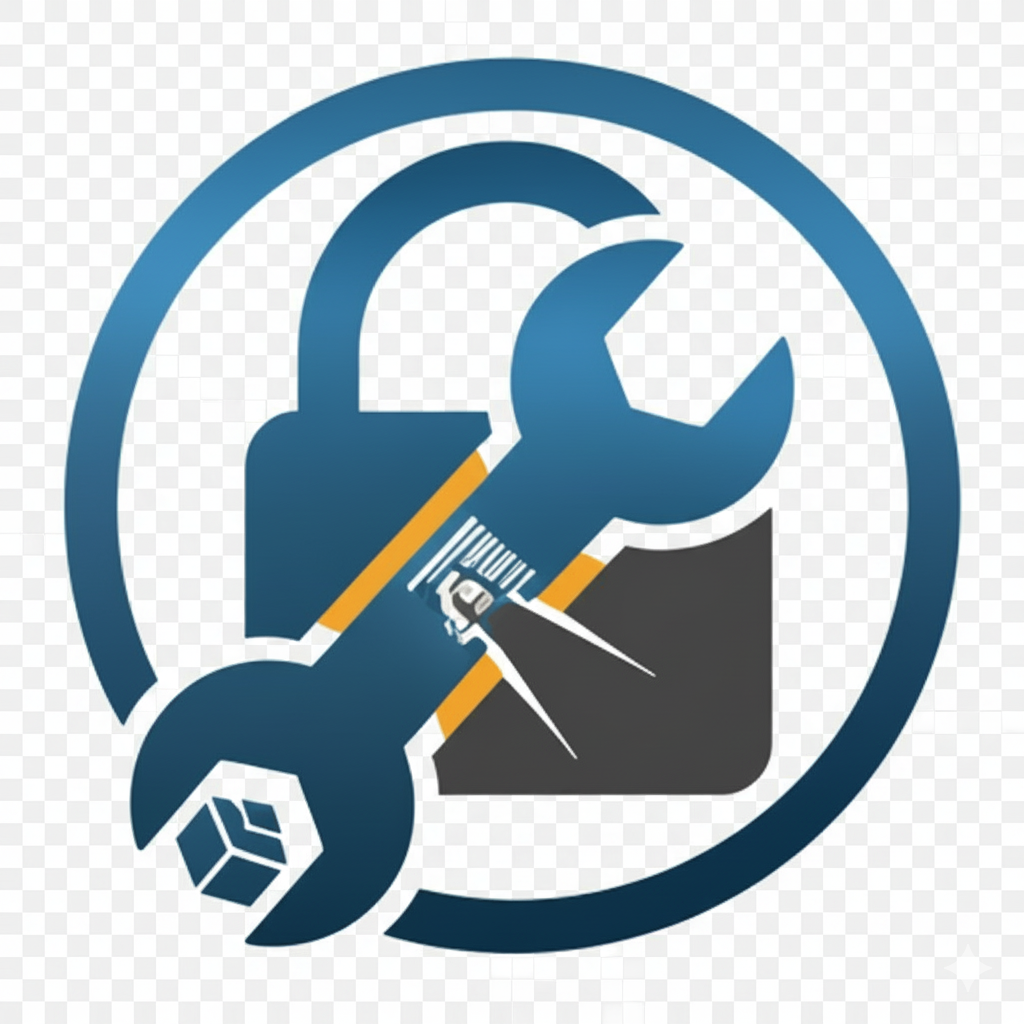
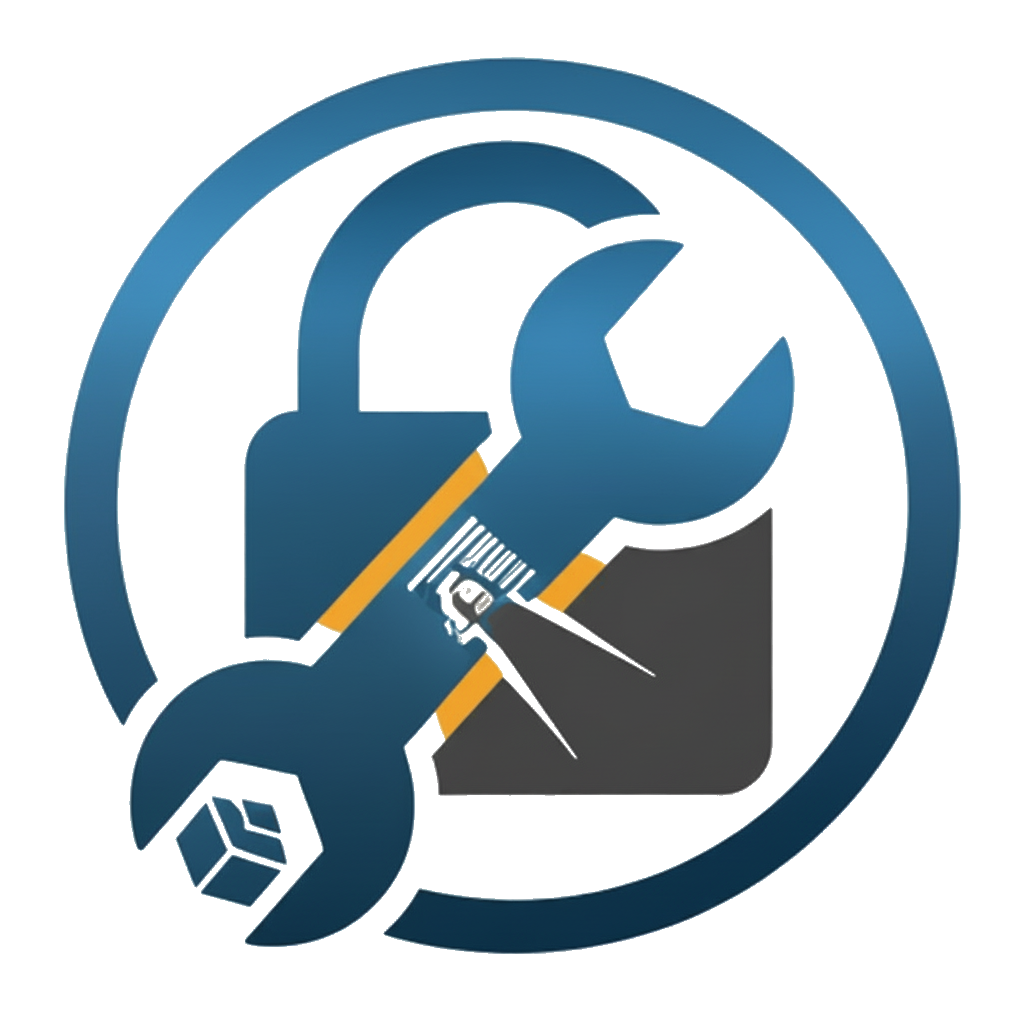
Fix icon_NB.png transparency by removing specific background color
- Identified background color as srgba(239,240,240,1) - light gray, not white
- Used ImageMagick to remove this specific background color with fuzz tolerance
- Enhanced CSS with additional transparency properties
- Converted to proper RGBA format for web transparency
- Should now display without white/gray box background

Changed region(s): [[0.4062, 0.5, 0.5, 0.625]]

diff --git a/index.html b/index.html
@@ -4,7 +4,7 @@
 <meta name="viewport" content="width=device-width, initial-scale=1.0"/>
 <title>GarageVault - Inventory Unlocked | Stop Buying Duplicate Tools</title>
 <meta name="description" content="AI-powered garage organization app. Track your tools, equipment, and inventory. Get reminded what to buy when near hardware stores. Never buy duplicates again!"/>
-<link href="ICON_Transparent 2 Background Removed.png" rel="icon" type="image/png"/>
+<link href="icon_NB.png" rel="icon" type="image/png"/>
 <script src="https://cdn.tailwindcss.com?plugins=forms,container-queries"></script>
 <script>
     tailwind.config = {
@@ -70,7 +70,7 @@
         }
         
         /* Ensure logo transparency */
-        img[src*="ICON_Transparent 2 Background Removed.png"] {
+        img[src*="icon_NB.png"] {
             background: transparent !important;
             background-color: transparent !important;
             background-image: none !important;
@@ -78,6 +78,10 @@
             border: none !important;
             box-shadow: none !important;
             outline: none !important;
+            image-rendering: -webkit-optimize-contrast;
+            image-rendering: crisp-edges;
+            -webkit-background-clip: padding-box;
+            background-clip: padding-box;
         }
     </style>
 </head>
@@ -87,7 +91,7 @@
 <div class="container mx-auto px-4 sm:px-6 lg:px-8">
 <div class="flex h-16 sm:h-20 items-center justify-between border-b border-primary/30">
 <div class="flex items-center gap-2 sm:gap-3">
-<img src="ICON_Transparent 2 Background Removed.png" alt="GarageVault Icon" class="h-8 w-8 sm:h-10 sm:w-10"/>
+<img src="icon_NB.png" alt="GarageVault Icon" class="h-8 w-8 sm:h-10 sm:w-10"/>
 <div>
 <h2 class="text-lg sm:text-xl md:text-2xl font-display font-bold text-text-light">GarageVault</h2>
 <p class="text-xs text-text-dark hidden sm:block">Inventory Unlocked</p>
@@ -609,7 +613,7 @@ Start Free Trial
 <div class="container mx-auto px-4 sm:px-6 lg:px-8 py-10 sm:py-12 lg:py-16">
 <div class="flex flex-col md:flex-row justify-between items-center gap-6 sm:gap-8 lg:gap-10">
 <div class="flex items-center gap-2 sm:gap-3">
-<img src="ICON_Transparent 2 Background Removed.png" alt="GarageVault Icon" class="h-8 w-8 sm:h-10 sm:w-10"/>
+<img src="icon_NB.png" alt="GarageVault Icon" class="h-8 w-8 sm:h-10 sm:w-10"/>
 <div>
 <h2 class="text-xl sm:text-2xl font-display font-bold text-text-light">GarageVault</h2>
 <p class="text-xs sm:text-sm text-text-dark">Inventory Unlocked</p>
